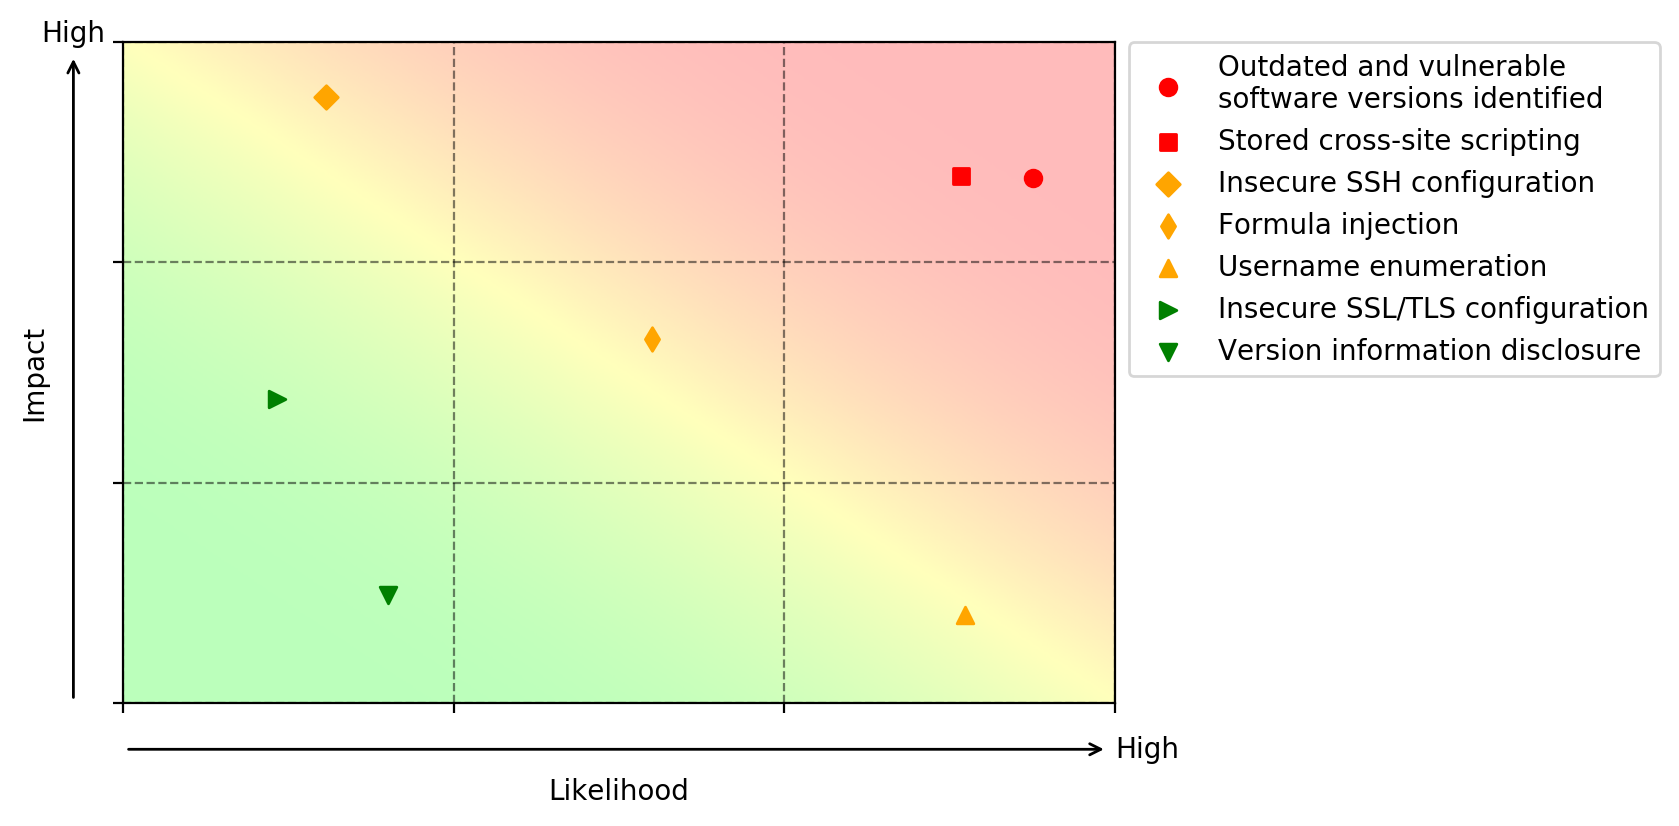
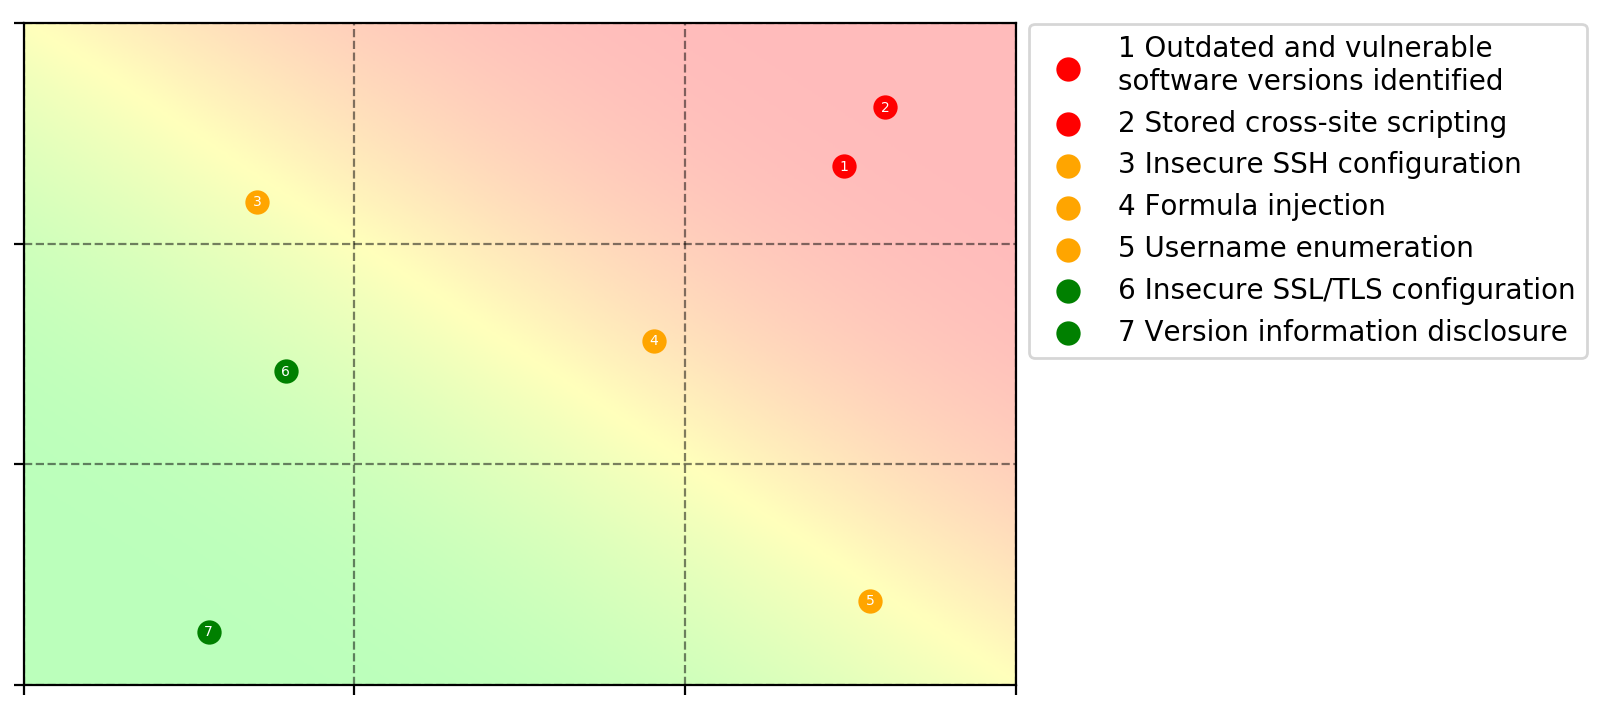
adding recommendations output + small changes

diff --git a/rpg.py b/rpg.py
@@ -10,9 +10,11 @@ import os
 import random
 from pathlib import Path
 
+numbers = []
 observation_names = []
 amount_of_observations = []
 risk_rating = []
+mylabels = []
 x_coords = []
 y_coords = []
 amount_high = 0
@@ -24,16 +26,18 @@ def get_args():
 
     parser = argparse.ArgumentParser(description='Converting scanning reports to a tabular format')
     parser.add_argument('-g', '--grid', action='store_true',
-                        help='generate a risk grid.')
-    parser.add_argument('-r', '--ring', action='store_true',
-                        help='generate a risk ring.')
+                        help='generate a risk grid plot.')
+    parser.add_argument('-d', '--donut', action='store_true',
+                        help='generate a risk donut.')
+    parser.add_argument('-r', '--recommendations', action='store_true',
+                        help='generate a risk recommendations plot.')
     parser.add_argument('-iC', '--input-csv-file', required=True,
                         help='specify an input CSV file (e.g. data.csv).')
     parser.add_argument('-oP', '--output-png-file',
                         help='specify an output PNG file (e.g. risk.png).')
     return parser.parse_args()
 
-def load_csv(args):
+def load_risk_csv(args):
     """ Import CSV and translate Likelihood and Impact to numbers """
 
     global amount_high
@@ -43,25 +47,26 @@ def load_csv(args):
         data = csv.reader(csvfile, delimiter=',')
         next(data)
         for row in data:
-            observation_names.append(row[0])
-            risk_rating.append(row[3])
-            if row[1] == "H":
-                x = 450
-            elif row[1] == "M":
-                x = 300
-            elif row[1] == "L":
-                x = 150
+            numbers.append(row[0])
+            observation_names.append(row[1])
+            risk_rating.append(row[4])
             if row[2] == "H":
-                y = 300
+                x = 450
             elif row[2] == "M":
-                y = 200
+                x = 300
             elif row[2] == "L":
-                y = 100
+                x = 150
             if row[3] == "H":
-                amount_high += 1
+                y = 300
             elif row[3] == "M":
-                amount_medium += 1
+                y = 200
             elif row[3] == "L":
+                y = 100
+            if row[4] == "H":
+                amount_high += 1
+            elif row[4] == "M":
+                amount_medium += 1
+            elif row[4] == "L":
                 amount_low += 1
             x_coords.append(x)
             y_coords.append(y)
@@ -69,7 +74,34 @@ def load_csv(args):
     for row in enumerate(observation_names):
         amount_of_observations.append(row[0])
 
-def ring(args):
+def load_recommendations_csv(args):
+    """ Import CSV and translate Likelihood and Impact to numbers """
+
+    with open(args.input_csv_file, newline='') as csvfile:
+        data = csv.reader(csvfile, delimiter=',')
+        next(data)
+        for row in data:
+            numbers.append(row[0])
+            observation_names.append(row[1])
+            if row[2] == "H":
+                x = 450
+            elif row[2] == "M":
+                x = 300
+            elif row[2] == "L":
+                x = 150
+            if row[3] == "H":
+                y = 300
+            elif row[3] == "M":
+                y = 200
+            elif row[3] == "L":
+                y = 100
+            x_coords.append(x)
+            y_coords.append(y)
+
+    for row in enumerate(observation_names):
+        amount_of_observations.append(row[0])
+
+def donut(args):
     """ Ring functions """
 
     fig, ax = plt.subplots(subplot_kw=dict(aspect="equal"))
@@ -113,40 +145,43 @@ def grid(args):
     """ Grid function """
 
     # Background
-    bg = Path("data/bg.png")
+    bg = Path("data/grid-bg.png")
     if os.path.isfile(bg):
-        img = plt.imread("data/bg.png")
+        img = plt.imread("data/grid-bg.png")
     else:
-        img = plt.imread("/usr/share/rpg/data/bg.png")
+        img = plt.imread("/usr/share/rpg/data/grid-bg.png")
 
     # Axis spacing values
     x_axis_spacing = plticker.MultipleLocator(base=150)
     y_axis_spacing = plticker.MultipleLocator(base=100)
 
     # Some plot markers
-    markers = ['o', 's', 'D', 'd', '^', '>', 'v', '<', '*', 'P', 'x', 'X', '|', '_', '1', '2', '3',
-               '4']
+    # markers = ['o', 's', 'D', 'd', '^', '>', 'v', '<', '*', 'P', 'x', 'X', '|', '_', '1', '2',
+    #            '3', '4']
 
     fig, ax = plt.subplots()
     ax.imshow(img, extent=[0, 450, 0, 300])
 
     # Plot observations with a random offset inside their quadrant
-    for i, name, marker, risk in zip(amount_of_observations, observation_names, markers,
+    for number, i, name, risk in zip(numbers, amount_of_observations, observation_names,
                                      risk_rating):
         x_random = random.randint(x_coords[i]-90, x_coords[i]-10)
         y_random = random.randint(y_coords[i]-90, y_coords[i]-10)
         x = x_random
         y = y_random
         if risk == 'H':
-            ax.scatter(x, y, marker=marker, c='red')
+            ax.scatter(x, y, marker='o', c='red', s=60, edgecolors='face')
         elif risk == 'M':
-            ax.scatter(x, y, marker=marker, c='orange')
+            ax.scatter(x, y, marker='o', c='orange', s=60, edgecolors='face')
         elif risk == 'L':
-            ax.scatter(x, y, marker=marker, c='green')
-        # ax.text(x+0, y-15, name, fontsize=5, horizontalalignment='center')
+            ax.scatter(x, y, marker='o', c='green', s=60, edgecolors='face')
+        ax.text(x+0, y-2, number, fontsize=5, horizontalalignment='center', color='white')
 
     # Print legend
-    ax.legend(observation_names, loc="upper left", ncol=1, bbox_to_anchor=(1, 1.02))
+    for item in zip(numbers, observation_names):
+        mylabels.append(' '.join(item))
+    ax.legend(observation_names, labels=mylabels, loc="upper left", ncol=1,
+              bbox_to_anchor=(1, 1.02))
 
     # Hide axis numbers
     ax.set_yticklabels([])
@@ -157,14 +192,76 @@ def grid(args):
     ax.yaxis.set_major_locator(y_axis_spacing)
 
     # Print arrows along axis
-    ax.annotate('High', va="center", xy=(0, -0.07), xycoords='axes fraction', xytext=(1, -0.07),
-                arrowprops=dict(arrowstyle="<-", color='black'))
-    ax.annotate('High', ha="center", xy=(-0.05, 0), xycoords='axes fraction', xytext=(-0.05, 1),
-                arrowprops=dict(arrowstyle="<-", color='black'))
+    # ax.annotate('High', va="center", xy=(0, -0.07), xycoords='axes fraction', xytext=(1, -0.07),
+                # arrowprops=dict(arrowstyle="<-", color='black'))
+    # ax.annotate('High', ha="center", xy=(-0.05, 0), xycoords='axes fraction', xytext=(-0.05, 1),
+                # arrowprops=dict(arrowstyle="<-", color='black'))
 
     # Print axis titles
-    plt.xlabel("Likelihood", labelpad=20)
-    plt.ylabel("Impact", labelpad=20)
+    # plt.xlabel("Likelihood", labelpad=20)
+    # plt.ylabel("Impact", labelpad=20)
+
+    # Print grid
+    plt.grid(color='black', alpha=0.5, linestyle='--')
+
+    # Output
+    if not args.output_png_file:
+        plt.show()
+    else:
+        plt.savefig(args.output_png_file, transparent=True, dpi=200, bbox_inches='tight')
+
+def recommendations(args):
+    """ Grid function """
+
+    # Background
+    bg = Path("data/recommendations-bg.png")
+    if os.path.isfile(bg):
+        img = plt.imread("data/recommendations-bg.png")
+    else:
+        img = plt.imread("/usr/share/rpg/data/recommendations-bg.png")
+
+    # Axis spacing values
+    x_axis_spacing = plticker.MultipleLocator(base=150)
+    y_axis_spacing = plticker.MultipleLocator(base=100)
+
+    # Some plot markers
+    # markers = ['o', 's', 'D', 'd', '^', '>', 'v', '<', '*', 'P', 'x', 'X', '|', '_', '1', '2',
+    #            '3', '4']
+    fig, ax = plt.subplots()
+    ax.imshow(img, extent=[0, 450, 0, 300])
+
+    # Plot observations with a random offset inside their quadrant
+    for number, i, name in zip(numbers, amount_of_observations, observation_names):
+        x_random = random.randint(x_coords[i]-90, x_coords[i]-10)
+        y_random = random.randint(y_coords[i]-90, y_coords[i]-10)
+        x = x_random
+        y = y_random
+        ax.scatter(x, y, marker='o', c='royalblue', s=60, edgecolors='black')
+        ax.text(x+0, y-13, number, fontsize=5, horizontalalignment='center', color='black')
+
+    # Print legend
+    for item in zip(numbers, observation_names):
+        mylabels.append(' '.join(item))
+    ax.legend(observation_names, labels=mylabels, loc="upper left", ncol=1,
+              bbox_to_anchor=(1, 1.02))
+
+    # Hide axis numbers
+    ax.set_yticklabels([])
+    ax.set_xticklabels([])
+
+    # Grid spacing
+    ax.xaxis.set_major_locator(x_axis_spacing)
+    ax.yaxis.set_major_locator(y_axis_spacing)
+
+    # Print arrows along axis
+    # ax.annotate('High', va="center", xy=(0, -0.07), xycoords='axes fraction', xytext=(1, -0.07),
+                # arrowprops=dict(arrowstyle="<-", color='black'))
+    # ax.annotate('High', ha="center", xy=(-0.05, 0), xycoords='axes fraction', xytext=(-0.05, 1),
+                # arrowprops=dict(arrowstyle="<-", color='black'))
+
+    # Print axis titles
+    # plt.xlabel("Likelihood", labelpad=20)
+    # plt.ylabel("Impact", labelpad=20)
 
     # Print grid
     plt.grid(color='black', alpha=0.5, linestyle='--')
@@ -176,8 +273,15 @@ def grid(args):
         plt.savefig(args.output_png_file, transparent=True, dpi=200, bbox_inches='tight')
 
 args = get_args()
-load_csv(args)
-if args.ring:
-    ring(args)
+
+if args.donut or args.grid:
+    load_risk_csv(args)
+elif args.recommendations:
+    load_recommendations_csv(args)
+
+if args.donut:
+    donut(args)
 if args.grid:
     grid(args)
+if args.recommendations:
+    recommendations(args)

diff --git a/README.md b/README.md
@@ -11,14 +11,16 @@ And since I want to increase my Python skills some more, this would be a fun lit
 
 ```
 $ ./rpg.py -h
-usage: rpg.py [-h] [-g] [-r] [-i INPUT_FILE] [-o OUTPUT_FILE]
+usage: rpg.py [-h] [-g] [-d] [-r] -iC INPUT_CSV_FILE [-oP OUTPUT_PNG_FILE]
 
 Converting scanning reports to a tabular format
 
 optional arguments:
   -h, --help            show this help message and exit
-  -g, --grid            generate a risk grid.
-  -r, --ring            generate a risk ring.
+  -g, --grid            generate a risk grid plot.
+  -d, --donut           generate a risk donut.
+  -r, --recommendations
+                        generate a risk recommendations plot.
   -iC INPUT_CSV_FILE, --input-csv-file INPUT_CSV_FILE
                         specify an input CSV file (e.g. data.csv).
   -oP OUTPUT_PNG_FILE, --output-png-file OUTPUT_PNG_FILE
@@ -27,13 +29,17 @@ optional arguments:
 
 ## Example
 
-To generate a risk grid: `$ ./rpg.py -iC example/input/data.csv -oP example/output/grid.png -g`
+To generate a risk grid plot: `$ ./rpg.py -iC example/input/observations.csv -oP example/output/grid.png -g`
 
 ![Risk grid](example/output/grid.png "Risk grid")
 
-To generate a risk ring: `$ ./rpg.py -iC example/input/data.csv -oP example/output/ring.png -r`
+To generate a risk ring: `$ ./rpg.py -iC example/input/observations.csv -oP example/output/ring.png -r`
 
-![Risk ring](example/output/ring.png "Risk ring")
+![Risk ring](example/output/donut.png "Risk ring")
+
+To generate a recommendations plot: `$ ./rpg.py -iC example/input/recommendations.csv -oP example/output/ring.png -r`
+
+![Risk ring](example/output/recommendations.png "Risk ring")
 
 ## Dependencies
 
